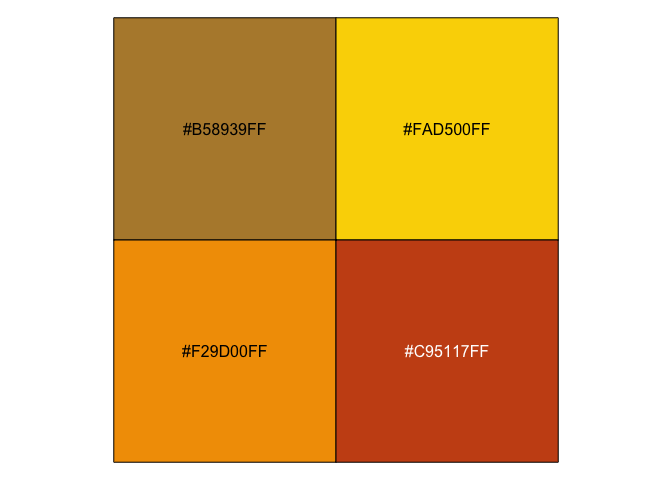
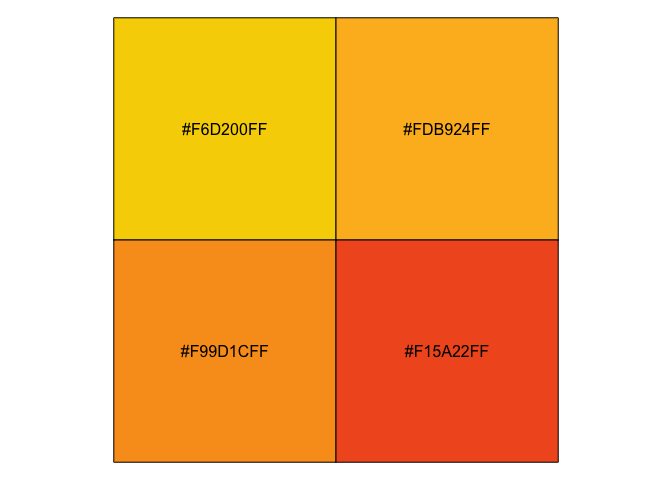
Update readme

diff --git a/README.md b/README.md
@@ -39,7 +39,7 @@ You can specify the colours in each row by specifying the `name`
 argument in the functions
 
 ``` r
-show_col(pal_sciensano(name = "yellow")(4))
+show_col(pal_sciensano(name = "yellowaccent")(4))
 ```
 
 <img src="man/figures/README-cars-1.png" width="100%" />
